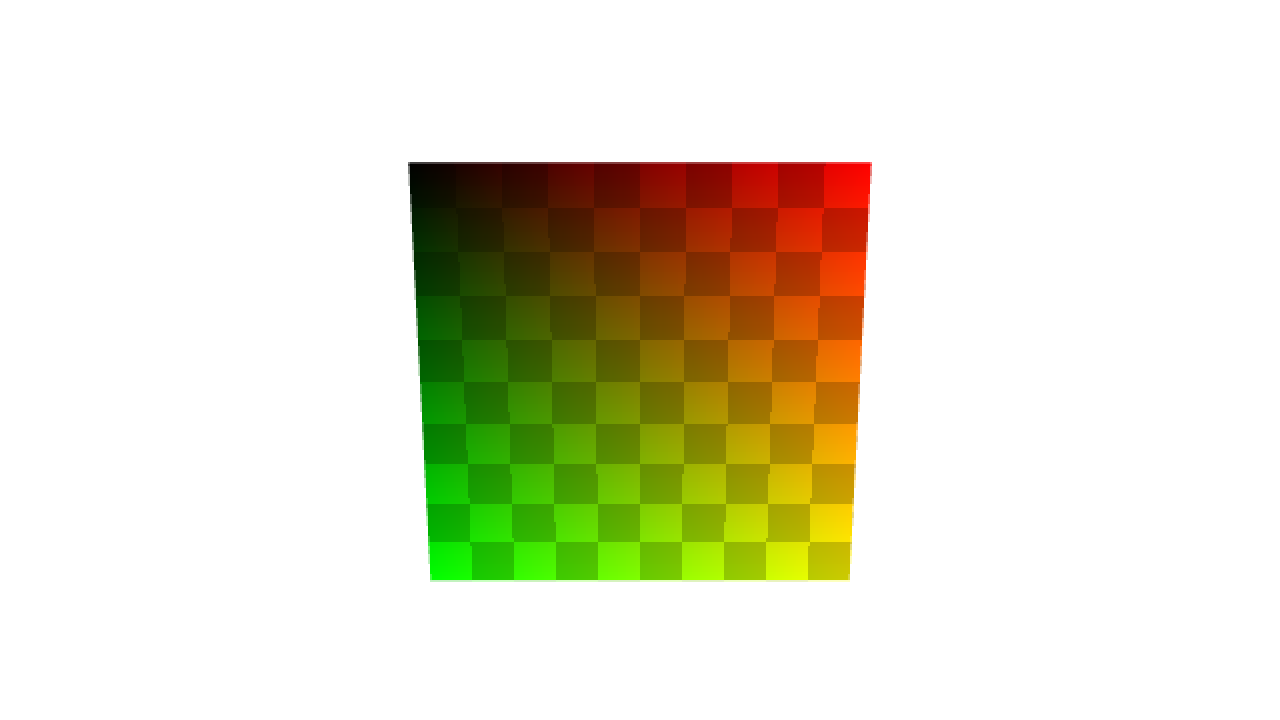
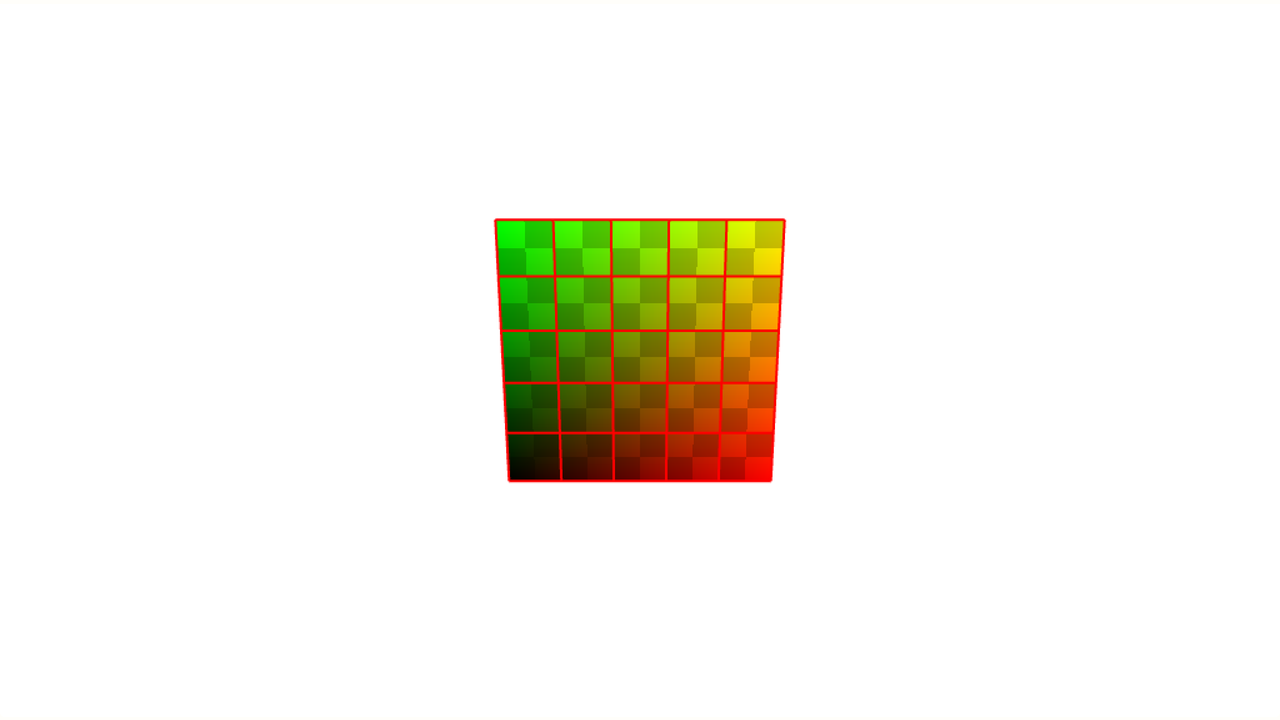
Flip UV upside down so 0,0 is in the bottom left corner

Changed region(s): [[0.3125, 0.2139, 0.6875, 0.825]]

diff --git a/index.js b/index.js
@@ -23,7 +23,7 @@ function createPlane (sx, sy, nx, ny, options) {
       var x = -sx / 2 + u * sx // starts on the left
       var y = sy / 2 - v * sy // starts at the top
       positions.push([x, y, 0])
-      uvs.push([u, v])
+      uvs.push([u, 1.0 - v])
       normals.push([0, 0, 1])
       if (iy < ny && ix < nx) {
         if (quads) {
